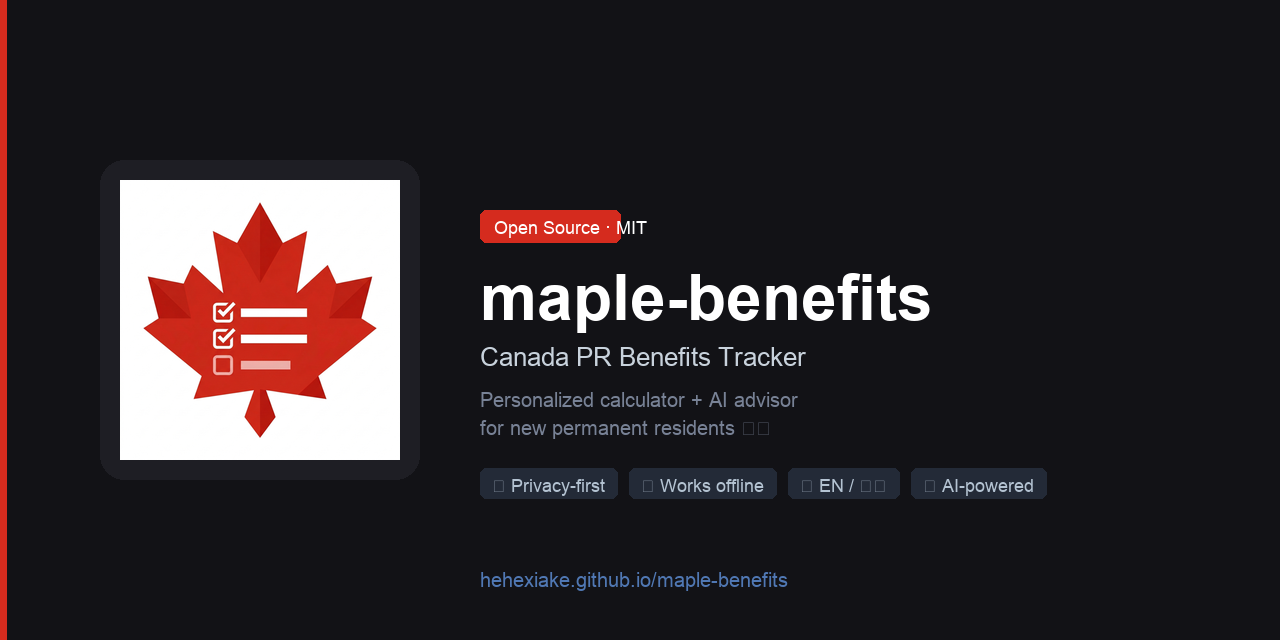
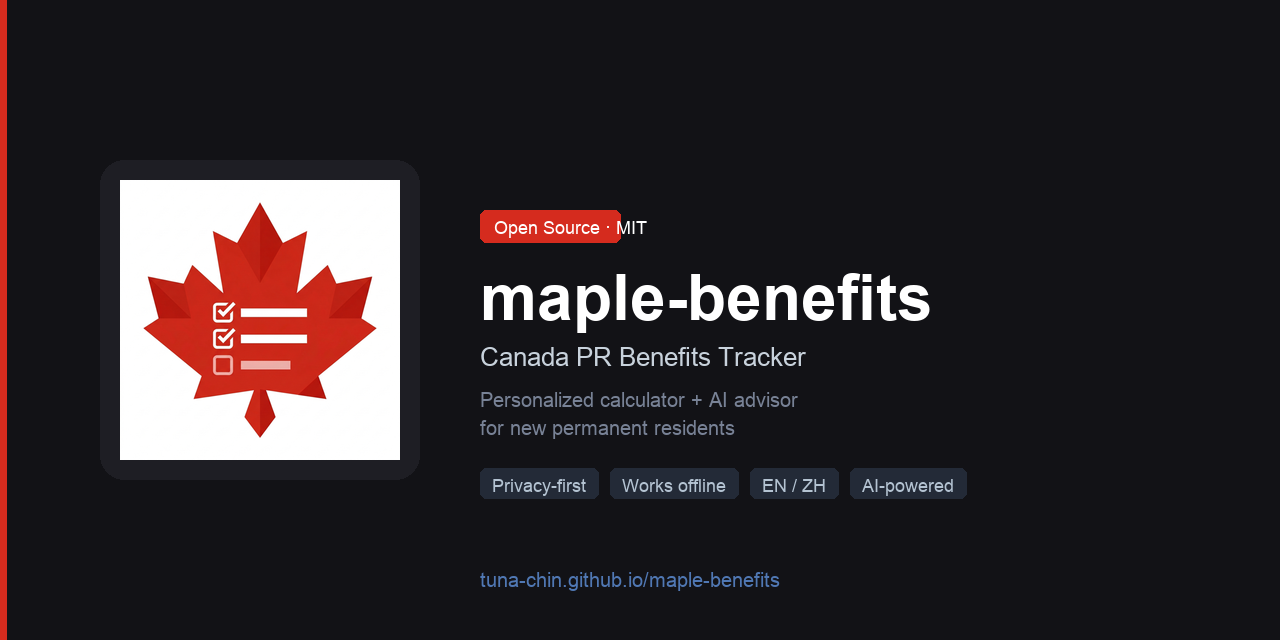
chore: update username hehexiake → tuna-chin

Changed region(s): [[0.375, 0.7188, 0.8438, 0.7812], [0.375, 0.875, 0.625, 0.9375]]

diff --git a/README.md b/README.md
@@ -7,11 +7,11 @@
 [![Offline Ready](https://img.shields.io/badge/offline-ready-brightgreen)]()
 [![No Backend](https://img.shields.io/badge/backend-none-green)]()
 [![Languages](https://img.shields.io/badge/lang-EN%20%7C%20中文-red)]()
-[![GitHub Pages](https://github.com/hehexiake/maple-benefits/actions/workflows/pages/pages-build-deployment/badge.svg)](https://hehexiake.github.io/maple-benefits)
+[![GitHub Pages](https://github.com/tuna-chin/maple-benefits/actions/workflows/pages/pages-build-deployment/badge.svg)](https://tuna-chin.github.io/maple-benefits)
 
 **Canada PR Life Tracker** — A free, open-source tool for new Canadian permanent residents to discover, calculate, and track federal and provincial benefits.
 
-🌐 Bilingual (English / 中文) · 🇨🇦 [**Try it now → hehexiake.github.io/maple-benefits**](https://hehexiake.github.io/maple-benefits)
+🌐 Bilingual (English / 中文) · 🇨🇦 [**Try it now → tuna-chin.github.io/maple-benefits**](https://tuna-chin.github.io/maple-benefits)
 
 ---
 
@@ -87,7 +87,7 @@ This tool helps you:
 ## How to use
 
 **Option 1 — Web (recommended)**
-Open [hehexiake.github.io/maple-benefits](https://hehexiake.github.io/maple-benefits) in any browser. No install, no account, no sign-up.
+Open [tuna-chin.github.io/maple-benefits](https://tuna-chin.github.io/maple-benefits) in any browser. No install, no account, no sign-up.
 
 **Option 2 — Fully offline**
 Download `index.html`, double-click to open. Works 100% offline. AI features require an API key but the rest of the app is fully functional without internet.

diff --git a/docs/video-script.md b/docs/video-script.md
@@ -9,7 +9,7 @@
 ## 一、录制前准备（5分钟）
 
 ### 浏览器设置
-1. 打开 Chrome，访问 `hehexiake.github.io/maple-benefits`
+1. 打开 Chrome，访问 `tuna-chin.github.io/maple-benefits`
 2. 按 `Cmd + Shift + B` 隐藏书签栏
 3. 按 `Cmd + -` 缩小一级，让界面更完整（或保持默认）
 4. 窗口大小调整为约 **1200 × 750**，不要全屏
@@ -74,7 +74,7 @@
 [0:24 - 0:28]  画面：定格回看板首页
 字幕：免费 · 不用注册 · 数据不离开你的手机
       （最后1秒切换为：）
-      hehexiake.github.io/maple-benefits
+      tuna-chin.github.io/maple-benefits
 动作：点回看板首页，静止
 ```
 
@@ -90,7 +90,7 @@
 | 0:15 | **$2,847 / 月** | 黄色或橙色，大字，居中 |
 | 0:17 | 你可能一项都没申请 | 白色粗体，居中 |
 | 0:24 | 免费 · 不用注册 · 数据不离开你的手机 | 白色小字，底部 |
-| 0:27 | hehexiake.github.io/maple-benefits | 蓝色，居中 |
+| 0:27 | tuna-chin.github.io/maple-benefits | 蓝色，居中 |
 
 ---
 
@@ -147,10 +147,10 @@
 填一下家庭情况，自动算出你每月/年可以领多少钱
 不用注册，不用下载，打开就用，数据全在你本地
 
-hehexiake.github.io/maple-benefits
+tuna-chin.github.io/maple-benefits
 
 开源，欢迎贡献其他省的数据 👇
-github.com/hehexiake/maple-benefits
+github.com/tuna-chin/maple-benefits
 ```
 
 **发布格式：** 视频 + 文案，不要只发链接
